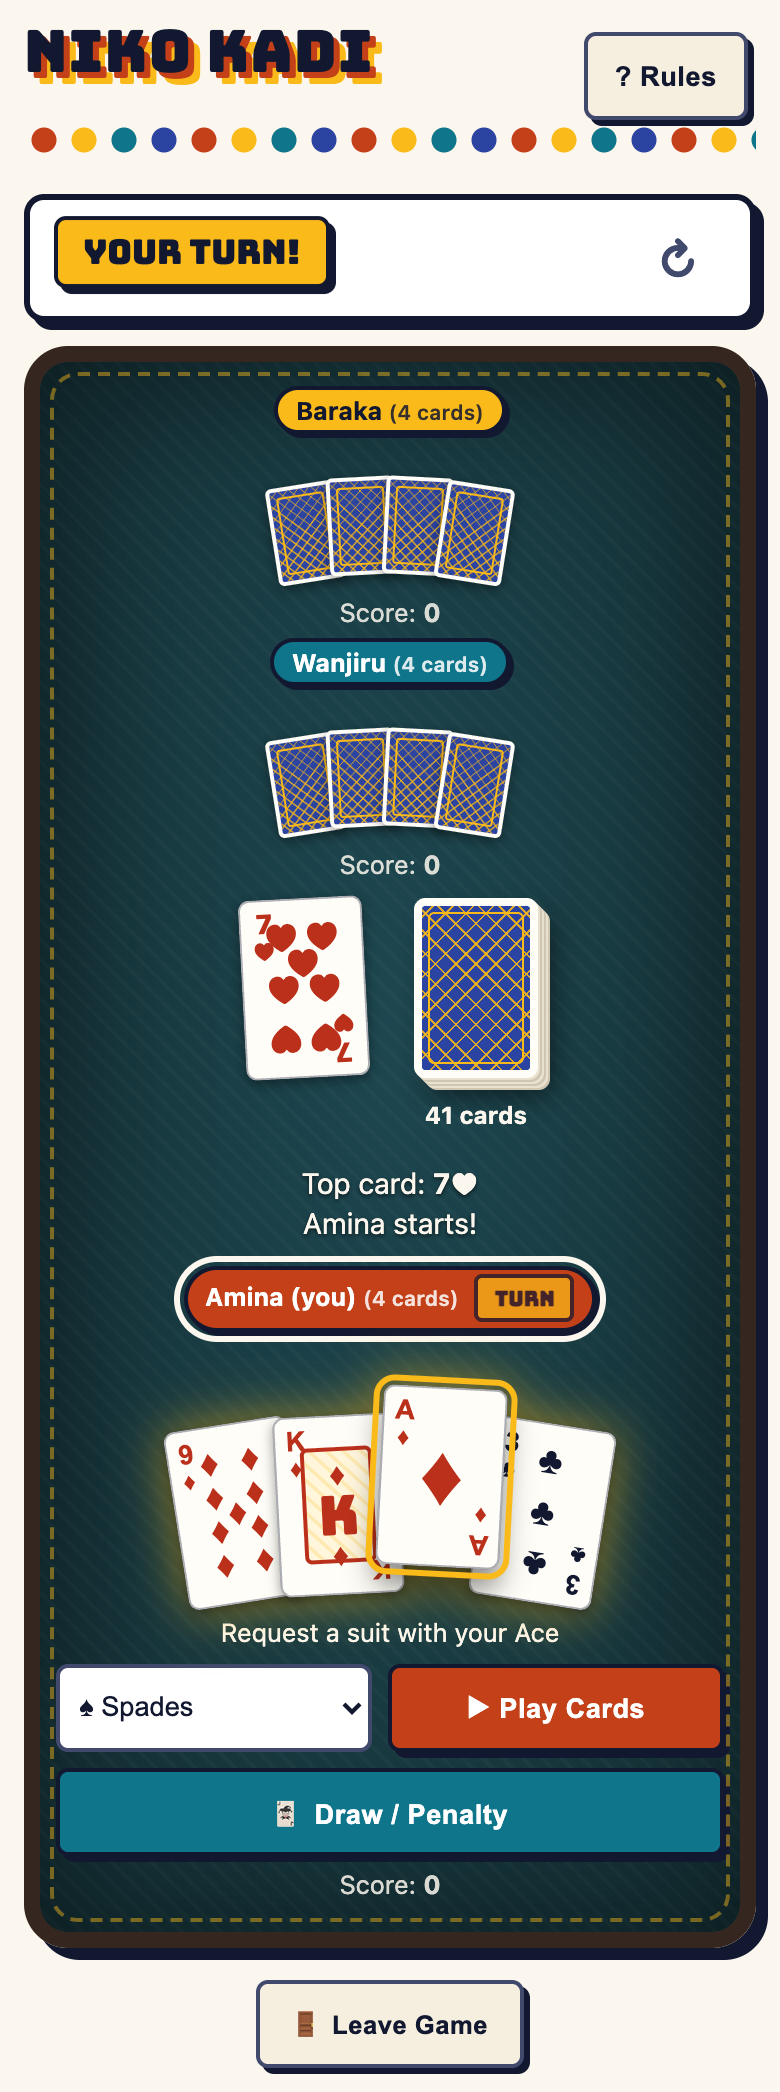
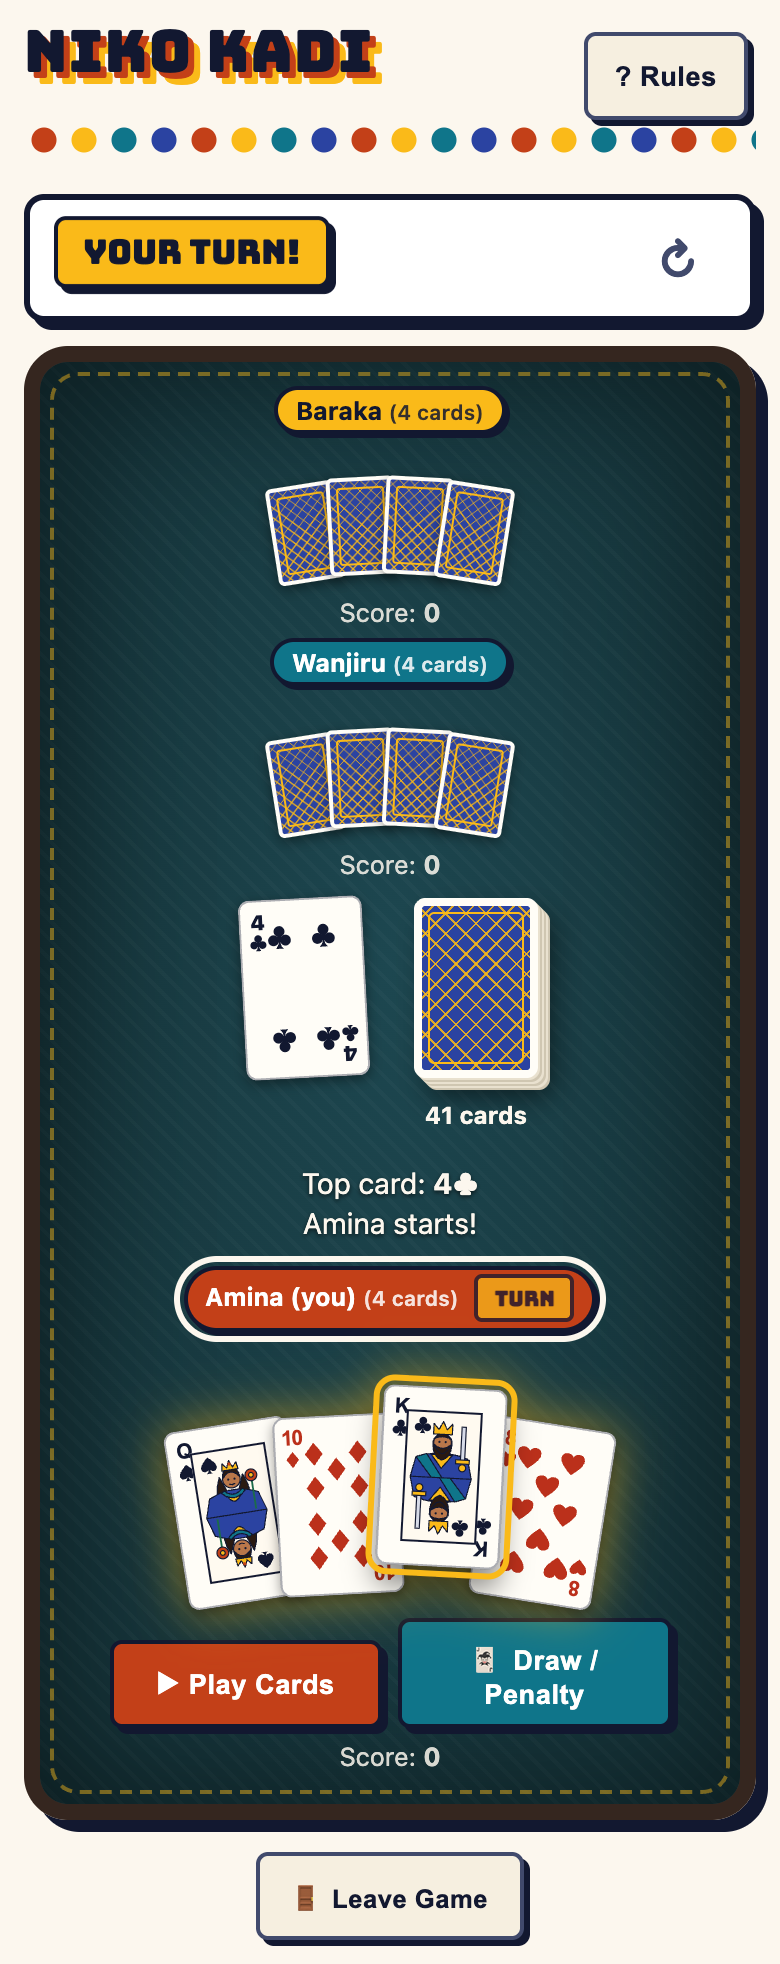
Draw cards like a standard 52-card deck
Suits are now SVG shapes, J/Q/K are double-ended court figures in a frame,
the joker is a jester, and pips and corner indices follow standard layouts.
Screenshots refreshed.

diff --git a/index.html b/index.html
@@ -10,6 +10,78 @@
     <link rel="stylesheet" href="styles.css" />
   </head>
   <body>
+    <!-- Playing-card artwork: suit symbols, court-card figures and the joker -->
+    <svg width="0" height="0" style="position:absolute" aria-hidden="true" focusable="false">
+      <defs>
+        <symbol id="suit-h" viewBox="0 0 100 100"><path d="M50 92C12 60 2 42 2 28 2 13 13 5 27 5c10 0 19 6 23 14 4-8 13-14 23-14 14 0 25 8 25 23 0 14-10 32-48 64z"/></symbol>
+        <symbol id="suit-d" viewBox="0 0 100 100"><path d="M50 3 86 50 50 97 14 50z"/></symbol>
+        <symbol id="suit-s" viewBox="0 0 100 100"><path d="M50 3C50 3 5 38 5 62c0 14 10 22 22 22 8 0 15-4 19-10-1 11-5 19-13 22h34c-8-3-12-11-13-22 4 6 11 10 19 10 12 0 22-8 22-22C95 38 50 3 50 3z"/></symbol>
+        <symbol id="suit-c" viewBox="0 0 100 100"><circle cx="50" cy="27" r="22"/><circle cx="26" cy="63" r="22"/><circle cx="74" cy="63" r="22"/><path d="M50 40C50 70 46 86 34 97h32C54 86 50 70 50 40z"/><circle cx="50" cy="58" r="14"/></symbol>
+
+        <!-- Upper half of each court figure; the lower half is the same figure turned over -->
+        <g id="half-K" stroke="#121830" stroke-width="1" stroke-linejoin="round">
+          <path class="c-robe" d="M4 48 8 31Q30 23 52 31L56 48z"/>
+          <path class="c-teal" d="M8 31 22 48h9L17 28z"/>
+          <path class="c-gold" d="M21 28.5 30 40l9-11.5z"/>
+          <path class="c-hair" d="M22 16Q21 30 30 33Q39 30 38 16Q30 22 22 16z"/>
+          <circle class="c-skin" cx="30" cy="18" r="7.5"/>
+          <path class="c-hair" d="M23 20Q30 35 37 20Q30 26 23 20z"/>
+          <path class="c-hair" d="M22.5 15Q30 6 37.5 15Q30 11 22.5 15z"/>
+          <path class="c-gold" d="M22 11V2l4.5 5L30 0l3.5 7L38 2v9z"/>
+          <circle cx="27.3" cy="17.5" r=".9" fill="#121830" stroke="none"/><circle cx="32.7" cy="17.5" r=".9" fill="#121830" stroke="none"/>
+          <rect class="c-steel" x="46" y="4" width="3.6" height="29"/>
+          <rect class="c-gold" x="42" y="32" width="11.6" height="3.4"/>
+          <circle class="c-gold" cx="47.8" cy="39" r="3"/>
+        </g>
+        <g id="half-Q" stroke="#121830" stroke-width="1" stroke-linejoin="round">
+          <path class="c-hair" d="M20 15Q13 30 18 42L27 33zM40 15Q47 30 42 42L33 33z"/>
+          <path class="c-robe" d="M4 48 9 32Q30 22 51 32L56 48z"/>
+          <path class="c-teal" d="M20 29Q30 40 40 29L38 27Q30 35 22 27z"/>
+          <path class="c-gold" d="M24 32Q30 42 36 32Q30 36 24 32z"/>
+          <circle class="c-skin" cx="30" cy="18" r="7.5"/>
+          <path class="c-hair" d="M22.5 17Q23 8 30 8Q37 8 37.5 17Q34 12 30 12Q26 12 22.5 17z"/>
+          <path class="c-gold" d="M23 10 24 4l3.5 4L30 2l2.5 6L36 4l1 6z"/>
+          <circle class="c-clay" cx="30" cy="5" r="1.4" stroke="none"/>
+          <circle cx="27.3" cy="18" r=".9" fill="#121830" stroke="none"/><circle cx="32.7" cy="18" r=".9" fill="#121830" stroke="none"/>
+          <path d="M27.6 22Q30 23.6 32.4 22" fill="none" stroke-linecap="round"/>
+          <path d="M47 46V22" fill="none" stroke="#1b6b4a" stroke-width="1.6"/>
+          <circle class="c-clay" cx="47" cy="17" r="5"/>
+          <circle class="c-gold" cx="47" cy="17" r="2"/>
+        </g>
+        <g id="half-J" stroke="#121830" stroke-width="1" stroke-linejoin="round">
+          <path class="c-robe" d="M5 48 9 31Q30 24 51 31L55 48z"/>
+          <path class="c-teal" d="M9 31 23 48h9L18 28z"/>
+          <path class="c-gold" d="M21 28.5 30 39l9-10.5z"/>
+          <circle class="c-skin" cx="30" cy="18" r="7.5"/>
+          <path class="c-hair" d="M22.5 17Q22 9.5 30 9.5Q38 9.5 37.5 17Q35 13.5 30 13.5Q25 13.5 22.5 17z"/>
+          <path class="c-robe" d="M21 13Q30 -2 39 13Q30 9.5 21 13z"/>
+          <path class="c-gold" d="M21.2 12.4Q30 8.6 38.8 12.4L39 14.4Q30 10.8 21 14.4z"/>
+          <path class="c-teal" d="M36 6Q46 0 51 11Q43 8 36.5 11z"/>
+          <circle cx="27.3" cy="18" r=".9" fill="#121830" stroke="none"/><circle cx="32.7" cy="18" r=".9" fill="#121830" stroke="none"/>
+          <path d="M27.6 22Q30 23.6 32.4 22" fill="none" stroke-linecap="round"/>
+          <rect fill="#7a4b2a" x="9.2" y="3" width="2.6" height="42"/>
+          <path class="c-steel" d="M11.8 6 24 10 11.8 19z"/>
+        </g>
+
+        <g id="court-K"><use href="#half-K"/><use href="#half-K" transform="rotate(180 30 48)"/></g>
+        <g id="court-Q"><use href="#half-Q"/><use href="#half-Q" transform="rotate(180 30 48)"/></g>
+        <g id="court-J"><use href="#half-J"/><use href="#half-J" transform="rotate(180 30 48)"/></g>
+
+        <g id="jester" stroke="#121830" stroke-width="1" stroke-linejoin="round">
+          <path class="c-clay" d="M30 31Q10 29 5 8Q18 12 30 25z"/>
+          <path class="c-teal" d="M30 31Q50 29 55 8Q42 12 30 25z"/>
+          <path class="c-gold" d="M21 31Q30 2 39 31z"/>
+          <circle class="c-gold" cx="5" cy="8" r="3.4"/><circle class="c-gold" cx="55" cy="8" r="3.4"/><circle class="c-clay" cx="30" cy="7" r="3.4"/>
+          <path class="c-robe" d="M13 58H47L53 92H7z"/>
+          <path class="c-gold" d="M30 62 40 76 30 90 20 76z"/>
+          <circle class="c-skin" cx="30" cy="42" r="11"/>
+          <path class="c-teal" d="M19.2 36Q30 31 40.8 36L41 39Q30 34 19 39z"/>
+          <circle cx="26" cy="42" r="1.1" fill="#121830" stroke="none"/><circle cx="34" cy="42" r="1.1" fill="#121830" stroke="none"/>
+          <path d="M25.5 47Q30 51 34.5 47" fill="none" stroke-linecap="round"/>
+          <path fill="#fffdf7" d="M11 56 17 64 23 56 29 64 35 56 41 64 49 56Q30 52 11 56z"/>
+        </g>
+      </defs>
+    </svg>
     <main class="app">
       <h1>Niko Kadi</h1>
       <button id="rulesBtn" class="btn-secondary rules-btn" type="button" aria-haspopup="dialog">? Rules</button>

diff --git a/styles.css b/styles.css
@@ -486,64 +486,66 @@ button.card { min-height: 0; cursor: pointer; }
   display: flex;
   flex-direction: column;
   align-items: center;
-  gap: 0.1em;
-  top: 0.4em;
-  left: 0.45em;
+  gap: 0.12em;
+  top: 0.55em;
+  left: 0.3em;
+  width: 1.3em;
+  font-size: 0.74em;
   line-height: 1;
 }
 
-.card .corner.flip { top: auto; left: auto; bottom: 0.4em; right: 0.45em; transform: rotate(180deg); }
-.card .corner b { font-size: 1.15em; letter-spacing: -0.06em; }
-.card .corner i { font-style: normal; font-size: 1em; }
+.card .corner.flip { top: auto; left: auto; bottom: 0.55em; right: 0.3em; transform: rotate(180deg); }
+.card .corner b { font-size: 1.2em; letter-spacing: -0.06em; }
+.card .suit { display: block; width: 1em; height: 1em; fill: currentColor; }
 
 .card .pip {
   position: absolute;
   left: var(--x);
   top: var(--y);
   transform: translate(-50%, -50%);
-  font-size: 1.55em;
-  line-height: 1;
+  width: 1.05em;
+  height: 1.05em;
 }
 
 .card .pip.flip { transform: translate(-50%, -50%) rotate(180deg); }
-.card .pip.ace { font-size: 3.6em; }
+.card .pip .suit { width: 100%; height: 100%; }
+.card .pip.ace { width: 3.4em; height: 3.4em; }
 
-/* J, Q, K: a framed portrait panel with the letter inside */
+/* J, Q, K: a framed, double-ended figure with the suit repeated beside it */
 .card .court {
   position: absolute;
-  inset: 17% 20%;
-  display: flex;
-  flex-direction: column;
-  align-items: center;
-  justify-content: space-between;
-  padding: 0.35em 0;
-  border: 2px solid currentColor;
-  border-radius: 0.3em;
-  background:
-    repeating-linear-gradient(45deg, transparent 0 0.35em, rgba(250, 186, 25, 0.22) 0.35em 0.5em),
-    #fff6dc;
+  inset: 12% 19%;
+  border: 1px solid currentColor;
+  background: #fffaf0;
+  --robe: var(--indigo);
 }
 
-.card .court b { font-family: var(--display); font-size: 2.3em; font-weight: 400; }
-.card .court i { font-style: normal; font-size: 1.3em; }
-.card .court i:last-child { transform: rotate(180deg); }
+.card.suit-hearts .court,
+.card.suit-diamonds .court { --robe: var(--clay); }
+
+.card .court-art { display: block; width: 100%; height: 100%; }
+
+.card .court-pip {
+  position: absolute;
+  top: 0.25em;
+  left: 0.2em;
+  width: 0.75em;
+  height: 0.75em;
+}
+.card .court-pip.flip { top: auto; left: auto; bottom: 0.25em; right: 0.2em; transform: rotate(180deg); }
+.card .court-pip .suit { width: 100%; height: 100%; }
 
 .card.suit-joker { color: var(--indigo); }
-.card .joker {
-  position: absolute;
-  inset: 12% 22%;
-  display: flex;
-  flex-direction: column;
-  align-items: center;
-  justify-content: center;
-  gap: 0.2em;
-  border: 2px solid var(--indigo);
-  border-radius: 0.3em;
-  background: var(--saffron);
-  color: var(--indigo);
-}
-.card .joker b { font-size: 3em; line-height: 1; }
-.card .joker span { font-size: 0.7em; font-weight: 800; letter-spacing: 0.08em; }
+.card .court.joker { inset: 12% 21%; border-color: var(--indigo); --robe: var(--indigo); }
+
+/* colours shared by the court artwork */
+.c-robe { fill: var(--robe); }
+.c-gold { fill: var(--saffron); }
+.c-teal { fill: var(--teal); }
+.c-clay { fill: var(--clay); }
+.c-skin { fill: #b9774a; }
+.c-hair { fill: #2a1a12; }
+.c-steel { fill: #d7dbe8; }
 
 /* Card backs: an indigo diamond lattice in saffron, framed in white like a real deck */
 .card.hidden {

diff --git a/app.js b/app.js
@@ -273,7 +273,7 @@
   }
 
   // Pip positions (percent of the card) for number cards, laid out like a real deck
-  var L = 33, C = 50, R = 67;
+  var L = 31, C = 50, R = 69;
   var PIPS = {
     '2': [[C, 20], [C, 80]],
     '3': [[C, 20], [C, 50], [C, 80]],
@@ -286,15 +286,25 @@
     '10': [[L, 20], [R, 20], [C, 30], [L, 40], [R, 40], [L, 60], [R, 60], [C, 70], [L, 80], [R, 80]]
   };
 
-  // Inner markup of a card face: corner indices plus pips, a court panel or an ace
+  var SUIT_IDS = { '♠': 's', '♥': 'h', '♦': 'd', '♣': 'c' };
+
+  // Suits are drawn as SVG so they look the same on every device (no emoji substitution)
+  function suitSvg(suit) {
+    return '<svg class="suit" viewBox="0 0 100 100" aria-hidden="true"><use href="#suit-'
+      + (SUIT_IDS[suit] || 's') + '"/></svg>';
+  }
+
+  // Inner markup of a card face: corner indices plus pips, a court figure or an ace
   function cardHtml(card) {
     if (card.rank === 'JOKER') {
-      return '<span class="joker"><b>★</b><span>JOKER</span></span>';
+      return '<span class="corner"><b>★</b></span><span class="corner flip"><b>★</b></span>'
+        + '<span class="court joker"><svg class="court-art" viewBox="0 0 60 96" aria-hidden="true">'
+        + '<use href="#jester"/></svg></span>';
     }
     var rank = escapeHtml(card.rank);
-    var suit = escapeHtml(card.suit);
-    var corner = '<span class="corner"><b>' + rank + '</b><i>' + suit + '</i></span>'
-      + '<span class="corner flip"><b>' + rank + '</b><i>' + suit + '</i></span>';
+    var suit = suitSvg(card.suit);
+    var corner = '<span class="corner"><b>' + rank + '</b>' + suit + '</span>'
+      + '<span class="corner flip"><b>' + rank + '</b>' + suit + '</span>';
     var body = '';
     if (card.rank === 'A') {
       body = '<span class="pip ace" style="--x:50%;--y:50%">' + suit + '</span>';
@@ -304,7 +314,9 @@
           + suit + '</span>';
       }).join('');
     } else {
-      body = '<span class="court"><i>' + suit + '</i><b>' + rank + '</b><i>' + suit + '</i></span>';
+      body = '<span class="court"><svg class="court-art" viewBox="0 0 60 96" aria-hidden="true"><use href="#court-'
+        + rank + '"/></svg>'
+        + '<span class="court-pip">' + suit + '</span><span class="court-pip flip">' + suit + '</span></span>';
     }
     return corner + body;
   }
@@ -550,7 +562,7 @@
     var pileHtml = pileCards.map(function (c, idx) {
       var depth = pileCards.length - 1 - idx;
       var s = pileShapes[depth];
-      return '<span class="card ' + suitClass(c.suit) + '" style="--rot:' + s[0] + ';--tx:' + s[1] + ';--ty:' + s[2] + '">'
+      return '<span class="card ' + suitClass(c.suit) + '" role="img" aria-label="' + escapeHtml(c.label) + '" style="--rot:' + s[0] + ';--tx:' + s[1] + ';--ty:' + s[2] + '">'
         + cardHtml(c) + '</span>';
     }).join('');
 
